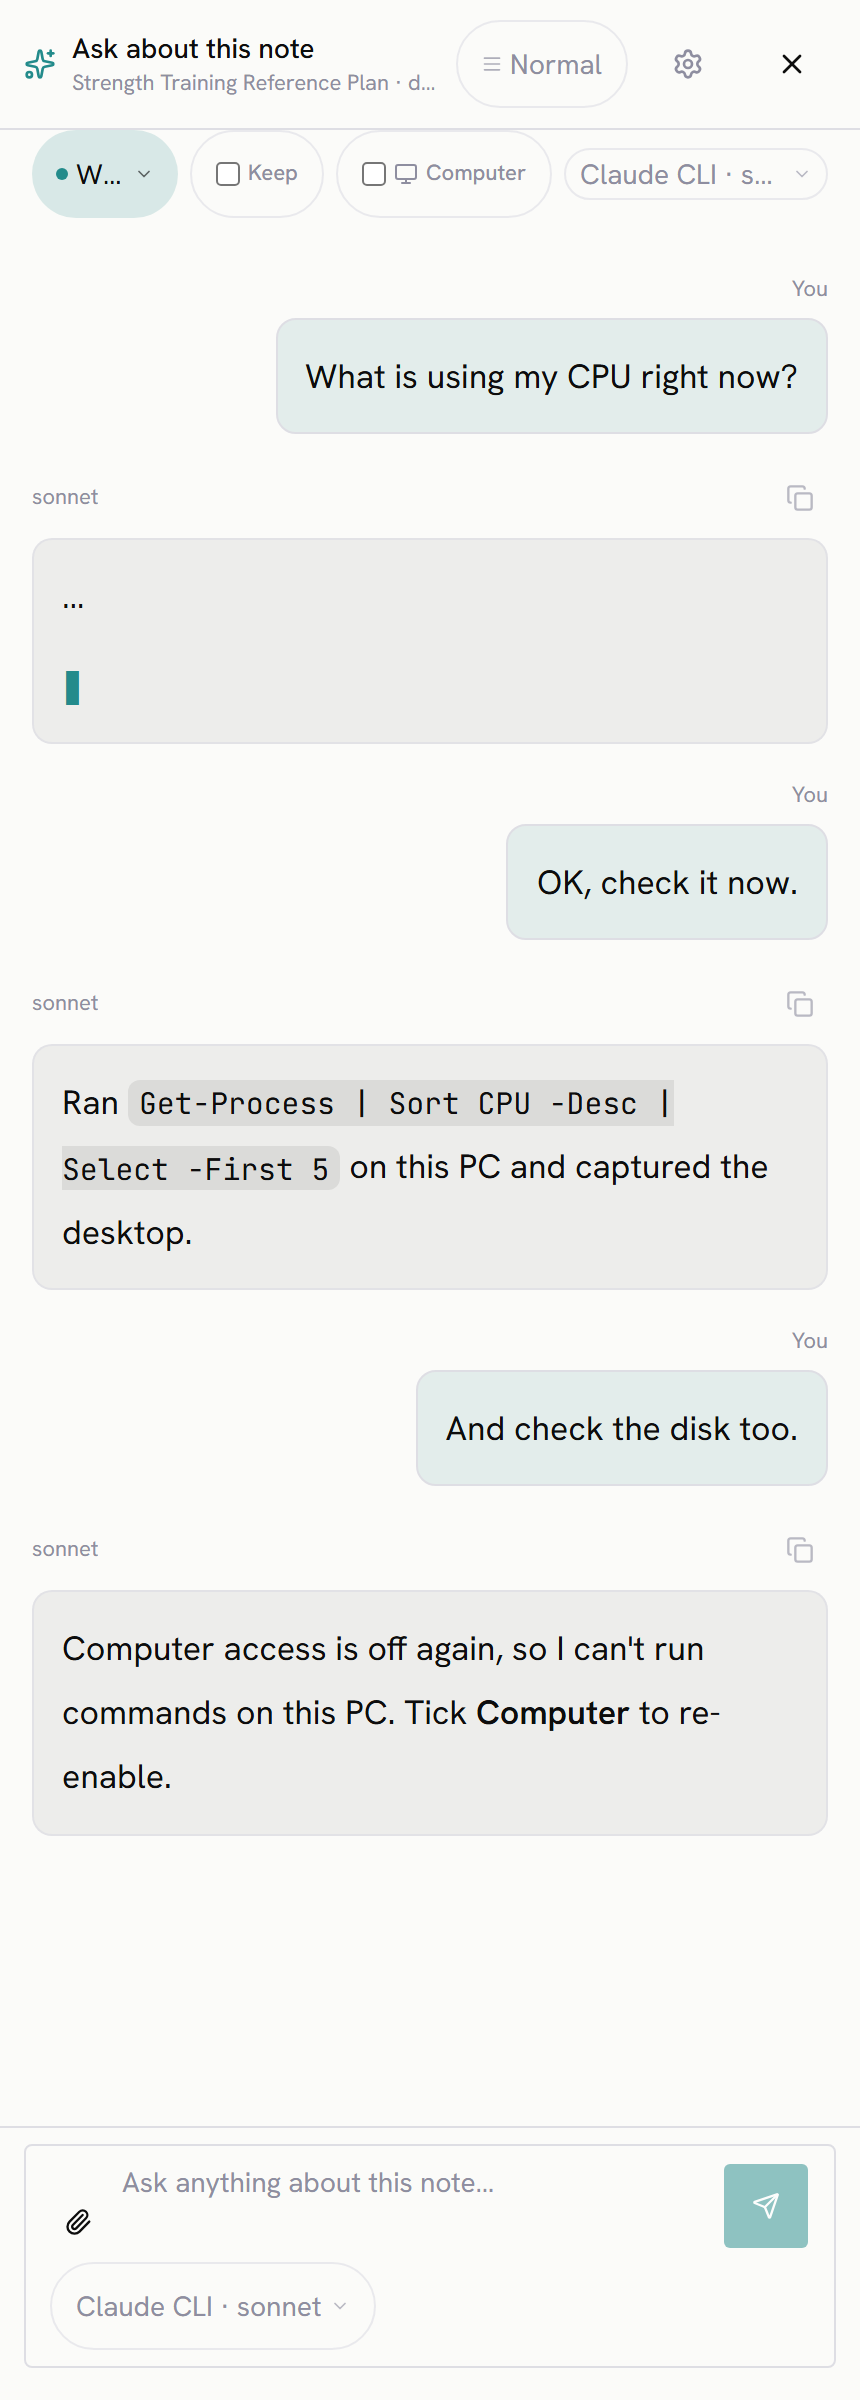
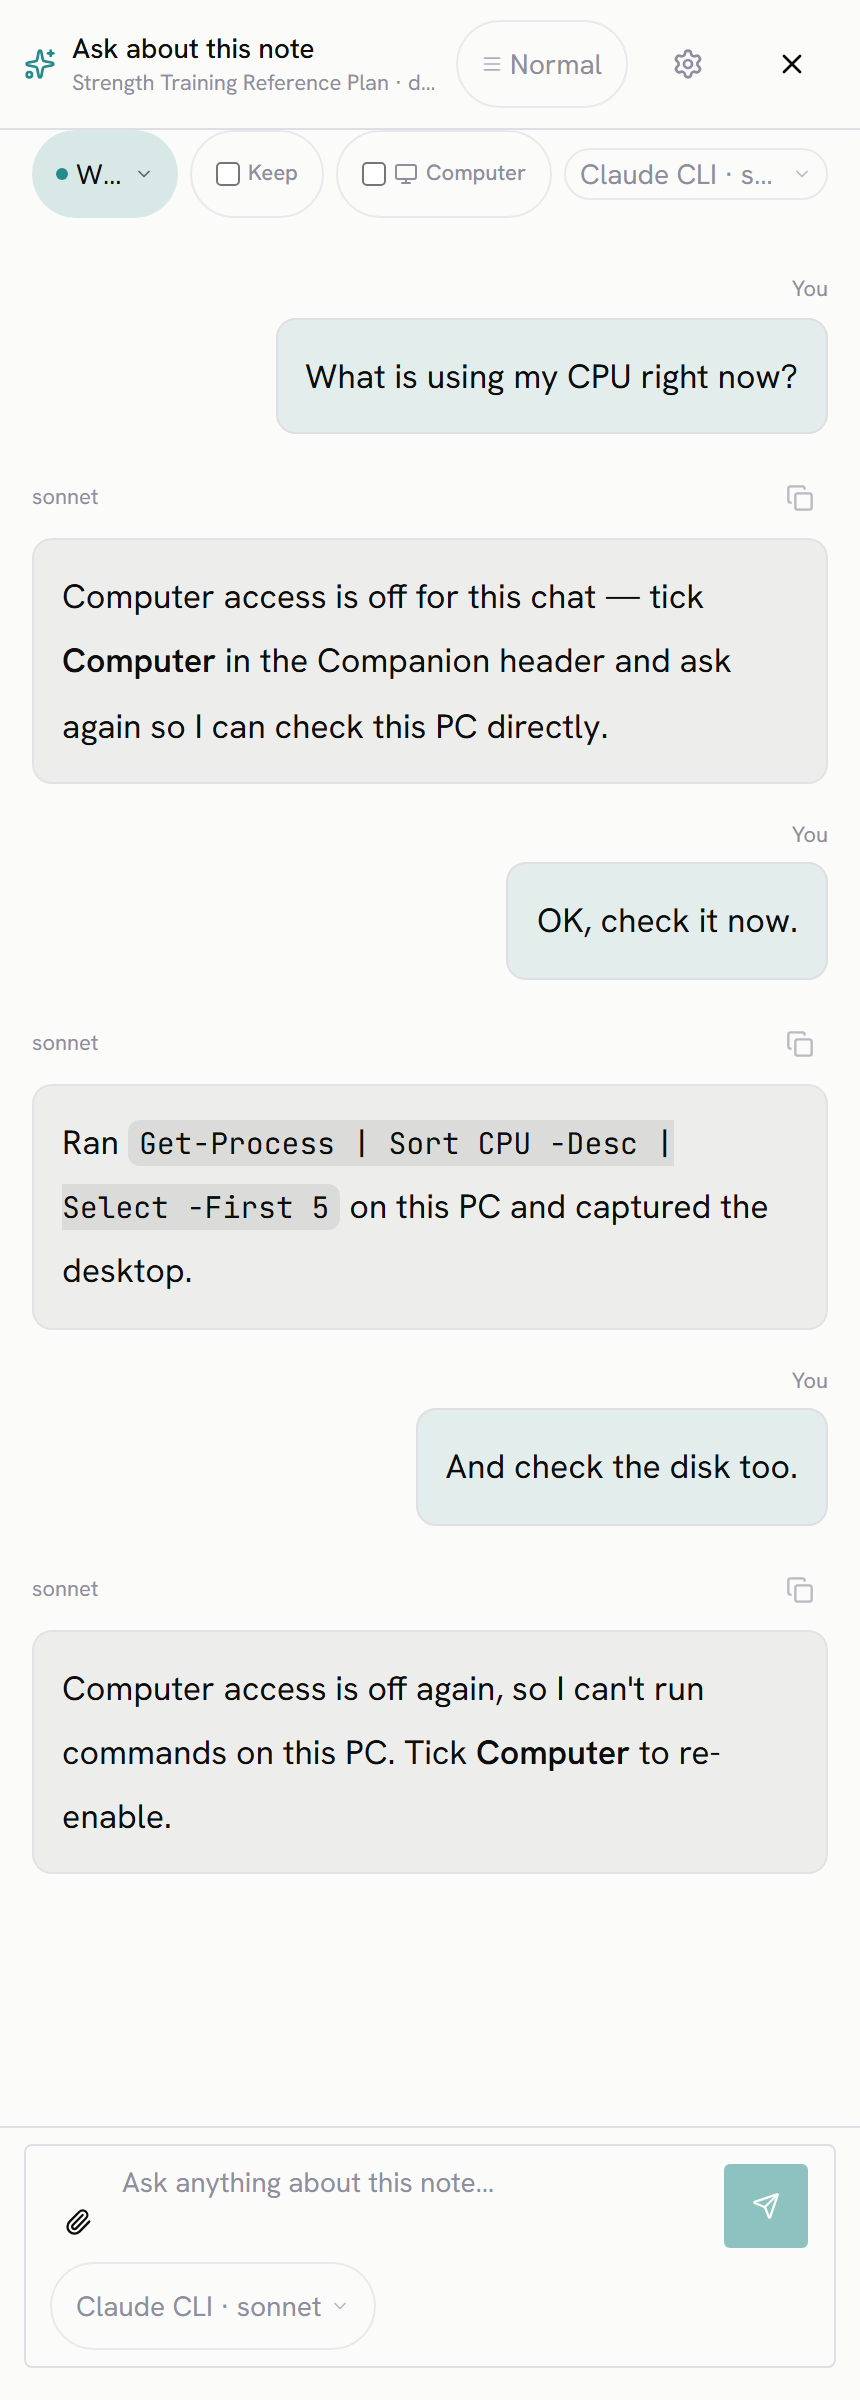
SN-356 explicit computer_access wire flag + Off->On evidence
- buildAiTurnRequest always sends computer_access as an explicit boolean
- Playwright asserts the outbound payload is [false, true, false] on one thread
- live Cursor Off->On->Off demo on a Deep Work thread (On runs PowerShell)
- live UI screenshot: Computer checked with a real ON turn succeeding
- sysdoc: Deep Work turns honor the checkbox; ON guidance override

diff --git a/evidence/SN-356/live-deepwork-off-on.js b/evidence/SN-356/live-deepwork-off-on.js
@@ -1,0 +1,82 @@
+// SN-356 rework cycle 2: real Cursor CLI through the worktree /api/chat/send path
+// on a Deep Work thread (dwc_ capability, like the owner's failing turns).
+// Sequence on ONE thread: Off -> On -> Off. On must run a real PC command.
+// Usage: node evidence/SN-356/live-deepwork-off-on.js > evidence/SN-356/live-deepwork-off-on.log
+'use strict';
+const fs = require('fs');
+const os = require('os');
+const path = require('path');
+const { Readable } = require('stream');
+const { createChatModule } = require('../../packages/cli-chat/index');
+
+const root = fs.mkdtempSync(path.join(os.tmpdir(), 'sn356-deepwork-'));
+const capability = `dwc_${'S'.repeat(43)}`;
+const waiters = new Map();
+const texts = new Map();
+const tools = new Map();
+const chat = createChatModule(null, {
+  emit(name, event) {
+    if (name !== 'chat_event' || !event) return;
+    const id = event.turn_id;
+    if (event.type === 'token') texts.set(id, (texts.get(id) || '') + (event.payload?.text || ''));
+    if (event.type === 'tool_call') {
+      const list = tools.get(id) || [];
+      list.push(event.payload?.name || event.payload?.tool || 'tool');
+      tools.set(id, list);
+    }
+    if (event.type === 'done') waiters.get(id)?.(event.payload);
+  },
+}, {
+  appId: 'smart-notes',
+  workingDirectory: path.resolve(__dirname, '../..'),
+  stateDir: root,
+  configPath: path.join(root, 'settings.json'),
+  recoverInterruptedOnStartup: false,
+  uploadDir: path.join(root, 'uploads'),
+  sandbox: 'editor',
+  verbose: true,
+  systemPrompt: 'You are the Smart Notes Companion. Be brief and accurate.',
+  resolveDeepWorkTurn: async (cap) => (cap === capability ? {
+    scopeKey: 'deep-work:sn356-live-demo',
+    workingDirectory: path.resolve(__dirname, '../..'),
+    companionBridgeRoot: path.join(root, 'bridge'),
+  } : null),
+});
+
+function send(body) {
+  const req = Readable.from([Buffer.from(JSON.stringify(body))]);
+  Object.assign(req, { url: '/api/chat/send', method: 'POST', headers: { 'content-type': 'application/json' } });
+  return new Promise(resolve => {
+    let status = 200;
+    chat.handleRequest(req, { writeHead: s => { status = s; }, end: text => resolve({ status, body: JSON.parse(text || '{}') }) });
+  });
+}
+
+(async () => {
+  const threadKey = `${capability}::whole`;
+  const appContext = [
+    'Smart Notes Deep Work operating context:',
+    '- Registered workspace root identity: C:\Projects\smart-notes',
+    `- workspaceCapability: ${capability}`,
+  ].join('\n');
+  const question = 'Diagnose this PC: run a PowerShell command to count currently running processes and report the exact count and the top memory process. If you have no shell access, say so; do not guess.';
+  const steps = [
+    ['1-off (box unchecked)', false, question],
+    ['2-on (box checked: "ok try again")', true, `ok try again. ${question}`],
+    ['3-off (box unchecked again)', false, `check again. ${question}`],
+  ];
+  console.log(`thread=${threadKey} provider=cursor started=${new Date().toISOString()}`);
+  for (const [label, armed, message] of steps) {
+    const { status, body } = await send({ provider: 'cursor', thread_key: threadKey, app_context: appContext, message, computer_access: armed });
+    if (status !== 200) throw new Error(`${label} send failed: ${status} ${JSON.stringify(body)}`);
+    const done = await new Promise(resolve => {
+      const timeout = setTimeout(() => resolve({ status: 'timeout' }), 180000);
+      waiters.set(body.turn_id, payload => { clearTimeout(timeout); resolve(payload); });
+    });
+    const record = JSON.parse(fs.readFileSync(path.join(root, 'jobs', `${body.turn_id}.json`), 'utf8'));
+    const used = tools.get(body.turn_id) || [];
+    console.log(`\n=== ${label}; wire computer_access=${armed}; server grant=${record.request.computer_access}; scope=${record.scope_key}; status=${done?.status}; tool_calls=${used.length} [${used.join(', ')}]`);
+    console.log((texts.get(body.turn_id) || '').trim());
+    if (done?.status !== 'completed') throw new Error(`${label} did not complete`);
+  }
+})().catch(error => { console.error(error); process.exitCode = 1; });

diff --git a/e2e/sn-356-companion-computer-access.spec.ts b/e2e/sn-356-companion-computer-access.spec.ts
@@ -110,7 +110,7 @@ test("SN-356: Computer access checkbox arms and disarms mid-session", async ({ p
   };
 
   const turnOff = await send("What is using my CPU right now?");
-  expect(turnOff.computer_access).toBeUndefined();
+  expect(turnOff.computer_access).toBe(false);
   await injectReply(page, String(turnOff.turn_id), "Computer access is off for this chat — tick **Computer** in the Companion header and ask again so I can check this PC directly.");
 
   // Arm mid-session: no restart, same thread.
@@ -126,10 +126,18 @@ test("SN-356: Computer access checkbox arms and disarms mid-session", async ({ p
   await toggle.uncheck();
   await expect(label).toHaveAttribute("data-armed", "false");
   const turnOffAgain = await send("And check the disk too.");
-  expect(turnOffAgain.computer_access).toBeUndefined();
+  expect(turnOffAgain.computer_access).toBe(false);
   expect(turnOffAgain.thread_key).toBe(turnOff.thread_key);
   await injectReply(page, String(turnOffAgain.turn_id), "Computer access is off again, so I can't run commands on this PC. Tick **Computer** to re-enable.");
   await surface.screenshot({ path: path.join(EVIDENCE_DIR, `${testInfo.project.name}-03-disarmed.png`) });
+
+  // Rework cycle 2: the exact outbound sequence across three sends on one thread.
+  expect(sentBodies.map((body) => body.computer_access)).toEqual([false, true, false]);
+  expect(new Set(sentBodies.map((body) => body.thread_key)).size).toBe(1);
+  fs.writeFileSync(
+    path.join(EVIDENCE_DIR, `${testInfo.project.name}-wire-payloads.json`),
+    JSON.stringify(sentBodies.map((body) => ({ thread_key: body.thread_key, message: body.message, computer_access: body.computer_access })), null, 2)
+  );
 
   // Never persisted: a reload starts disarmed.
   await openCompanion(page, mobile);

diff --git a/src/lib/ai-sidebar.ts b/src/lib/ai-sidebar.ts
@@ -333,11 +333,14 @@ export function buildAiTurnRequest(params: {
     model?: string;
     images?: AiTurnImageAttachment[];
     documents?: AiTurnPdfAttachment[];
-    computer_access?: true;
+    computer_access: boolean;
   } = {
     message: params.message,
     history: params.history,
     page_context: params.pageContext,
+    // SN-356: always explicit on the wire (false unless the owner armed this
+    // turn) so every send states its grant; the server arms only on literal true.
+    computer_access: params.computerAccess === true,
   };
 
   const turnId = params.turnId?.trim();
@@ -378,11 +381,6 @@ export function buildAiTurnRequest(params: {
   const browserOrigin = params.browserOrigin?.trim();
   if (browserOrigin) {
     payload.browser_origin = browserOrigin;
-  }
-
-  // Off by default: the flag is only sent on turns the owner explicitly armed.
-  if (params.computerAccess === true) {
-    payload.computer_access = true;
   }
 
   return payload;

diff --git a/tests/companion-computer-access.test.ts b/tests/companion-computer-access.test.ts
@@ -116,9 +116,9 @@ describe("SN-356 computer access sandbox overlay", () => {
 
 describe("SN-356 buildAiTurnRequest", () => {
   const base = { message: "hi", history: [], pageContext: "" };
-  it("omits computer_access unless the owner armed the turn", () => {
-    expect(buildAiTurnRequest(base)).not.toHaveProperty("computer_access");
-    expect(buildAiTurnRequest({ ...base, computerAccess: false })).not.toHaveProperty("computer_access");
+  it("always sends an explicit computer_access boolean, true only when armed", () => {
+    expect(buildAiTurnRequest(base).computer_access).toBe(false);
+    expect(buildAiTurnRequest({ ...base, computerAccess: false }).computer_access).toBe(false);
     expect(buildAiTurnRequest({ ...base, computerAccess: true }).computer_access).toBe(true);
   });
 });

diff --git a/tests/ai-sidebar.test.ts b/tests/ai-sidebar.test.ts
@@ -313,6 +313,7 @@ describe("buildAiTurnRequest", () => {
       message: "Fix this note",
       history: [{ role: "user", content: "Earlier" }],
       page_context: "# Note",
+      computer_access: false,
       app_context: "Smart Notes operating context:\n- Active markdown path: Notebook/Section/note.html",
       provider: "codex",
       model: "gpt-5-codex",
@@ -347,6 +348,7 @@ describe("buildAiTurnRequest", () => {
       message: "Fix this note",
       history: [],
       page_context: "# Note",
+      computer_access: false,
     });
   });
 

diff --git a/Docs/sysdoc/smart-notes.md b/Docs/sysdoc/smart-notes.md
@@ -1505,11 +1505,11 @@ The existing current-page PDF text and annotation blocks follow. A non-Bibliogra
 
 **Plain English:** The Companion has a **Computer** checkbox, off by default. On desktop it sits next to the model picker in the composer; on mobile it sits next to **Keep**. Checking it lets subsequent turns in that chat inspect the owner's PC with shell commands and desktop screenshots. Unchecking it disarms the next turn without restarting the chat. A reload starts with it off.
 
-- **UI and wire:** `CompanionComputerToggle` uses the documented sidebar chip styling. `notebook-shell-reliable.tsx` keeps an in-memory set of armed thread keys; `buildAiTurnRequest()` sends `computer_access: true` only when armed. The `/send` endpoint accepts only literal `true` and excludes Deep Work capability turns. `server.js` loads the repo-local cli-chat package so worktree previews exercise the current policy.
+- **UI and wire:** `CompanionComputerToggle` uses the documented sidebar chip styling. `notebook-shell-reliable.tsx` keeps an in-memory set of armed thread keys; `buildAiTurnRequest()` always sends an explicit `computer_access` boolean, read at send time (`true` only when the current thread is armed). The `/send` endpoint arms only on literal `true`, and that includes Deep Work (`dwc_…`) turns: the checkbox is the only authority. Before rework cycle 2, Deep Work turns were forced off, so a checked box armed nothing there. The trace records `computer_access_requested`, `deep_work` and the effective `computer_access` on `turn_created`. `server.js` loads the repo-local cli-chat package so worktree previews exercise the current policy.
 - **Turn boundary:** `applyComputerAccess()` derives a fresh sandbox for every send. Armed turns add Claude Bash/PowerShell, Copilot `--yolo`, Codex full access, and Cursor `--force`. Disarmed turns deny Claude Bash/PowerShell/Computer, pass Copilot `--deny-tool=shell`, and disable Codex shell, exec, computer-use, and browser-use features. Cursor uses `--mode ask` plus an isolated `CURSOR_CONFIG_DIR` with `Shell(*)`, `Write(**)`, and `Mcp(*:*)` deny rules. Cursor's `--print` mode has shell access without `--force`; its sandbox is unavailable on Windows, so the config is required. If the config cannot be written, the turn fails closed.
 - **Provider sessions:** Armed and disarmed turns use separate provider session keys (`#computer-access` and `#computer-off`). The explicit off key avoids resuming older Cursor/Codex sessions that had shell access before this policy. Thread reset clears both. The original in-app thread and visible conversation stay the same.
-- **Guidance:** Every turn carries `Computer access: ON|OFF` in the system prompt and message body. OFF tells the provider to refuse on-PC inspection and direct the owner to the checkbox. ON permits read-only diagnostics and points to `packages/cli-chat/desktop-screenshot.ps1`; state-changing commands still need owner approval. Headless CLI access provides shell and screenshots, not mouse or keyboard control.
-- **Verification:** `tests/companion-computer-access.test.ts` checks the per-provider restrictions and same-thread send transitions. `evidence/SN-356/live-cursor-rework.log` records a real Cursor On then Off turn on one thread.
+- **Guidance:** Every turn carries `Computer access: ON|OFF` in the system prompt and message body. OFF tells the provider to refuse on-PC inspection and direct the owner to the checkbox. ON permits read-only diagnostics and points to `packages/cli-chat/desktop-screenshot.ps1`. It also explicitly supersedes the connection-context rule against probing processes or direct filesystem access, for PC inspection only (vault and Deep Work edits still use the API/bridge tools); state-changing commands still need owner approval. Headless CLI access provides shell and screenshots, not mouse or keyboard control.
+- **Verification:** `tests/companion-computer-access.test.ts` checks the per-provider restrictions and same-thread send transitions. `evidence/SN-356/live-cursor-rework.log` records a real Cursor On then Off turn on one thread. `evidence/SN-356/live-deepwork-off-on.log` records a real Cursor Off → On → Off sequence on one Deep Work thread, with On running PowerShell. `e2e/sn-356-companion-computer-access.spec.ts` asserts the outbound payload is `false, true, false` across three sends on one thread (`*-wire-payloads.json`). `live-ui-2-checked-on-turn-succeeds.png` shows the checked box with a live ON reply.
 
 ### Lessons Learned
 
